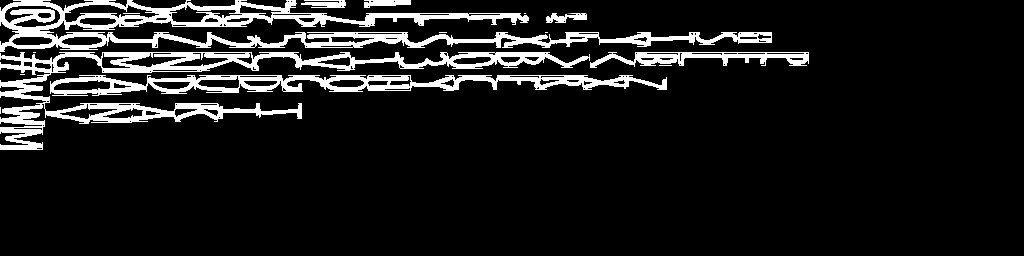
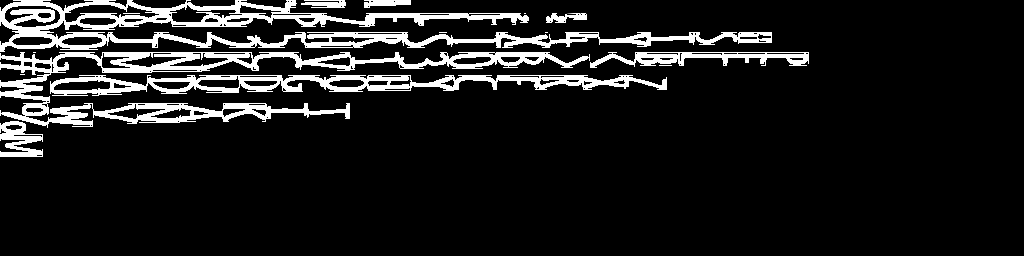
Beautify 2nd menu

Changed region(s): [[0.0, 0.375, 0.3438, 0.625]]

diff --git a/sources/states/GameStartScene.cpp b/sources/states/GameStartScene.cpp
@@ -34,10 +34,22 @@
 #include "util/Random.h"
 #include "PrototypeGame.h"
 
+#include "api/LocalizeAPI.h"
+
 struct GameStartScene : public StateHandler<Scene::Enum> {
     PrototypeGame* game;
 
-    Entity texts[4];
+    struct PlayerText {
+        union {
+            struct {
+                Entity score;
+                Entity bet;
+                Entity ready;
+            };
+            Entity t[3];
+        };
+    } texts[4];
+
     Entity playButton;
     bool ready[4];
     std::vector<Entity> highlights;
@@ -50,13 +62,20 @@ struct GameStartScene : public StateHandler<Scene::Enum> {
 
     void setup() {
         for (int i=0; i<4; i++) {
-            texts[i] = theEntityManager.CreateEntityFromTemplate("menu/player_button_text");
-            ANCHOR(texts[i])->parent = game->playerButtons[i];
-            ANCHOR(texts[i])->position *= glm::normalize(-TRANSFORM(game->playerButtons[i])->position);
-            if (ANCHOR(texts[i])->position.x > 0) {
-                TEXT(texts[i])->positioning = TextComponent::RIGHT;
-            } else {
-                TEXT(texts[i])->positioning = TextComponent::LEFT;
+            texts[i].score = theEntityManager.CreateEntityFromTemplate("menu/player_score_text");
+            ANCHOR(texts[i].score)->parent = game->playerButtons[i];
+
+            texts[i].bet = theEntityManager.CreateEntityFromTemplate("menu/player_bet_text");
+            ANCHOR(texts[i].bet)->parent = game->playerButtons[i];
+
+            texts[i].ready = theEntityManager.CreateEntityFromTemplate("menu/player_ready_text");
+            ANCHOR(texts[i].ready)->parent = game->playerButtons[i];
+
+            if (i % 2) {
+                for (int j=0; j<3; j++) {
+                    ANCHOR(texts[i].t[j])->anchor = -ANCHOR(texts[i].t[j])->anchor;
+                    TEXT(texts[i].t[j])->positioning = 1 - TEXT(texts[i].t[j])->positioning;
+                }
             }
         }
         playButton = theEntityManager.CreateEntityFromTemplate("menu/play_button");
@@ -67,39 +86,30 @@ struct GameStartScene : public StateHandler<Scene::Enum> {
         walls.push_back(theEntityManager.CreateEntityFromTemplate("game/wall_east"));
     }
 
-    void updateButton(int index) {
+    void updateBet(int index) {
         char* tmp = (char*) alloca(40);
-
-        if (ANCHOR(texts[index])->position.x > 0) {
-            sprintf(tmp, "%02d - %02d", game->score[index], 1 + game->playerActive[index]);
-        } else {
-            sprintf(tmp, "%02d - %02d", 1 + game->playerActive[index], game->score[index]);
-        }
-        TEXT(texts[index])->text = tmp;
+        sprintf(tmp, game->gameThreadContext->localizeAPI->text("bet").c_str(), 1 + game->playerActive[index]);
+        TEXT(texts[index].bet)->text = tmp;
     }
-
-    void updateReady(int index) {
-        if (ready[index]) {
-            BUTTON(game->playerButtons[index])->enabled = false;
-            TEXT(texts[index])->text = "";
-        } else {
-            TEXT(texts[index])->text = "tap";
-        }
-    }
-
-
 
     ///----------------------------------------------------------------------------//
     ///--------------------- ENTER SECTION ----------------------------------------//
     ///----------------------------------------------------------------------------//
 
     void onEnter(Scene::Enum) override {
-        for (int i=0; i<4; i++) {
-            if (game->playerActive[i] >= 0) {
-                BUTTON(game->playerButtons[i])->enabled =
-                    TEXT(texts[i])->show =
-                    RENDERING(game->playerButtons[i])->show = true;
-                updateButton(i);
+        {
+            char* scoreText = (char*)alloca(50);
+            for (int i=0; i<4; i++) {
+                if (game->playerActive[i] >= 0) {
+                    BUTTON(game->playerButtons[i])->enabled =
+                        TEXT(texts[i].score)->show =
+                        TEXT(texts[i].bet)->show =
+                        RENDERING(game->playerButtons[i])->show = true;
+                    updateBet(i);
+                }
+
+                sprintf(scoreText, game->gameThreadContext->localizeAPI->text("score").c_str(), game->score[i]);
+                TEXT(texts[i].score)->text = scoreText;
             }
         }
         TEXT(playButton)->show = true;
@@ -115,16 +125,25 @@ struct GameStartScene : public StateHandler<Scene::Enum> {
         for (int i=0; i<4; i++) {
             if (BUTTON(game->playerButtons[i])->clicked) {
                 game->playerActive[i] = (game->playerActive[i] + 1) % 10;
-                updateButton(i);
+                updateBet(i);
             }
         }
 
         if (BUTTON(playButton)->clicked) {
             for (int i=0; i<4; i++) {
+                TEXT(texts[i].bet)->show =
+                    TEXT(texts[i].score)->show = false;
                 ready[i] = (game->playerActive[i] < 0);
-                updateReady(i);
+                if (ready[i]) {
+                    BUTTON(game->playerButtons[i])->enabled = false;
+                    TEXT(texts[i].ready)->show = false;
+                } else {
+                    BUTTON(game->playerButtons[i])->enabled = true;
+                    TEXT(texts[i].ready)->show = true;
+                }
             }
-            TEXT(playButton)->text = "tap when ready";
+
+            TEXT(playButton)->show = false;
             RENDERING(playButton)->show = false;
             return Scene::InGame;
         }
@@ -183,7 +202,10 @@ struct GameStartScene : public StateHandler<Scene::Enum> {
         for (int i=0; i<4; i++) {
             if (BUTTON(game->playerButtons[i])->clicked) {
                 ready[i] = !ready[i];
-                updateReady(i);
+                if (ready[i]) {
+                    BUTTON(game->playerButtons[i])->enabled = false;
+                    TEXT(texts[i].ready)->show = false;
+                }
             }
         }
 
@@ -197,7 +219,9 @@ struct GameStartScene : public StateHandler<Scene::Enum> {
     void onExit(Scene::Enum) override {
         for (int i=0; i<4; i++) {
             BUTTON(game->playerButtons[i])->enabled =
-                TEXT(texts[i])->show =
+                TEXT(texts[i].bet)->show =
+                TEXT(texts[i].score)->show =
+                TEXT(texts[i].ready)->show =
                 RENDERING(game->playerButtons[i])->show = false;
         }
         TEXT(playButton)->show =

diff --git a/sources/states/MenuScene.cpp b/sources/states/MenuScene.cpp
@@ -53,6 +53,7 @@ struct MenuScene : public StateHandler<Scene::Enum> {
         for (int i=0; i<4; i++) {
             BUTTON(game->playerButtons[i])->enabled =
                 RENDERING(game->playerButtons[i])->show = true;
+            game->score[i] = 0;
         }
         TEXT(playButton)->show = true;
     }
@@ -62,6 +63,9 @@ struct MenuScene : public StateHandler<Scene::Enum> {
     ///--------------------- UPDATE SECTION ---------------------------------------//
     ///----------------------------------------------------------------------------//
     Scene::Enum update(float) override {
+        if (BUTTON(playButton)->clicked) {
+            return Scene::GameStart;
+        }
         for (int i=0; i<4; i++) {
             if (BUTTON(game->playerButtons[i])->clicked) {
                 game->playerActive[i] = -1 - game->playerActive[i];
@@ -81,9 +85,6 @@ struct MenuScene : public StateHandler<Scene::Enum> {
             TEXT(playButton)->show =
             BUTTON(playButton)->enabled = atLeastOnePlayerActive;
 
-        if (BUTTON(playButton)->clicked) {
-            return Scene::GameStart;
-        }
 
         return Scene::Menu;
     }
